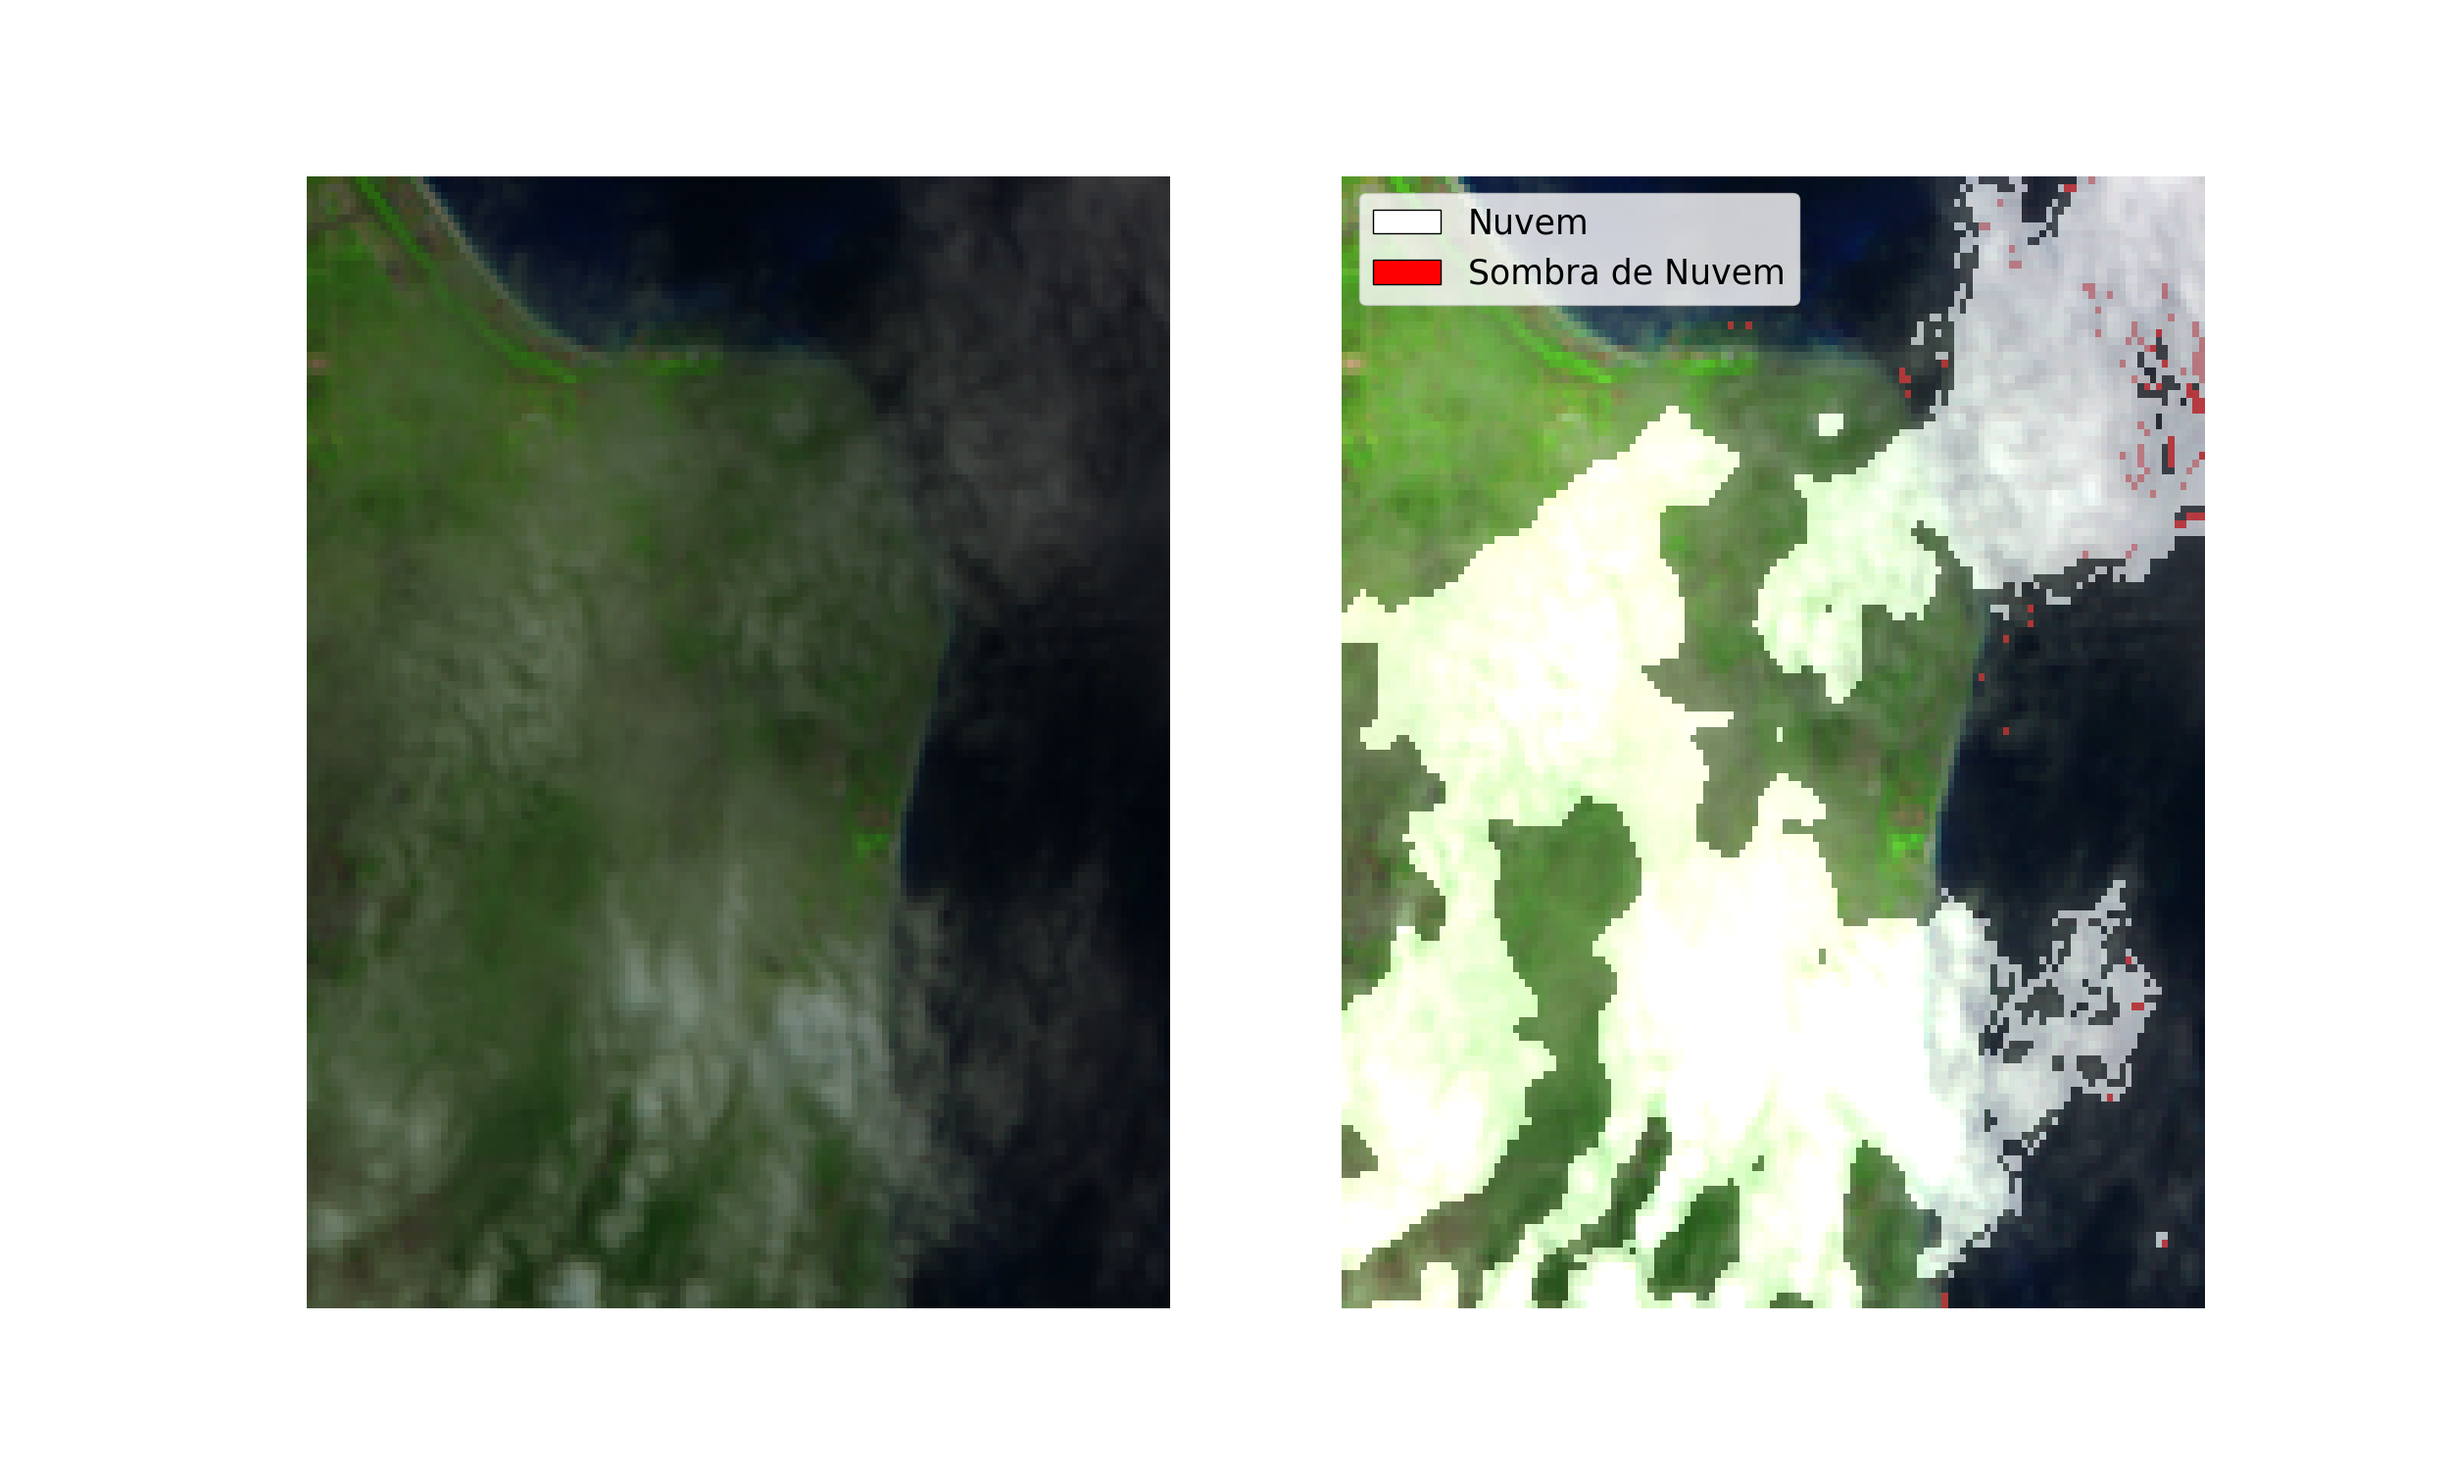
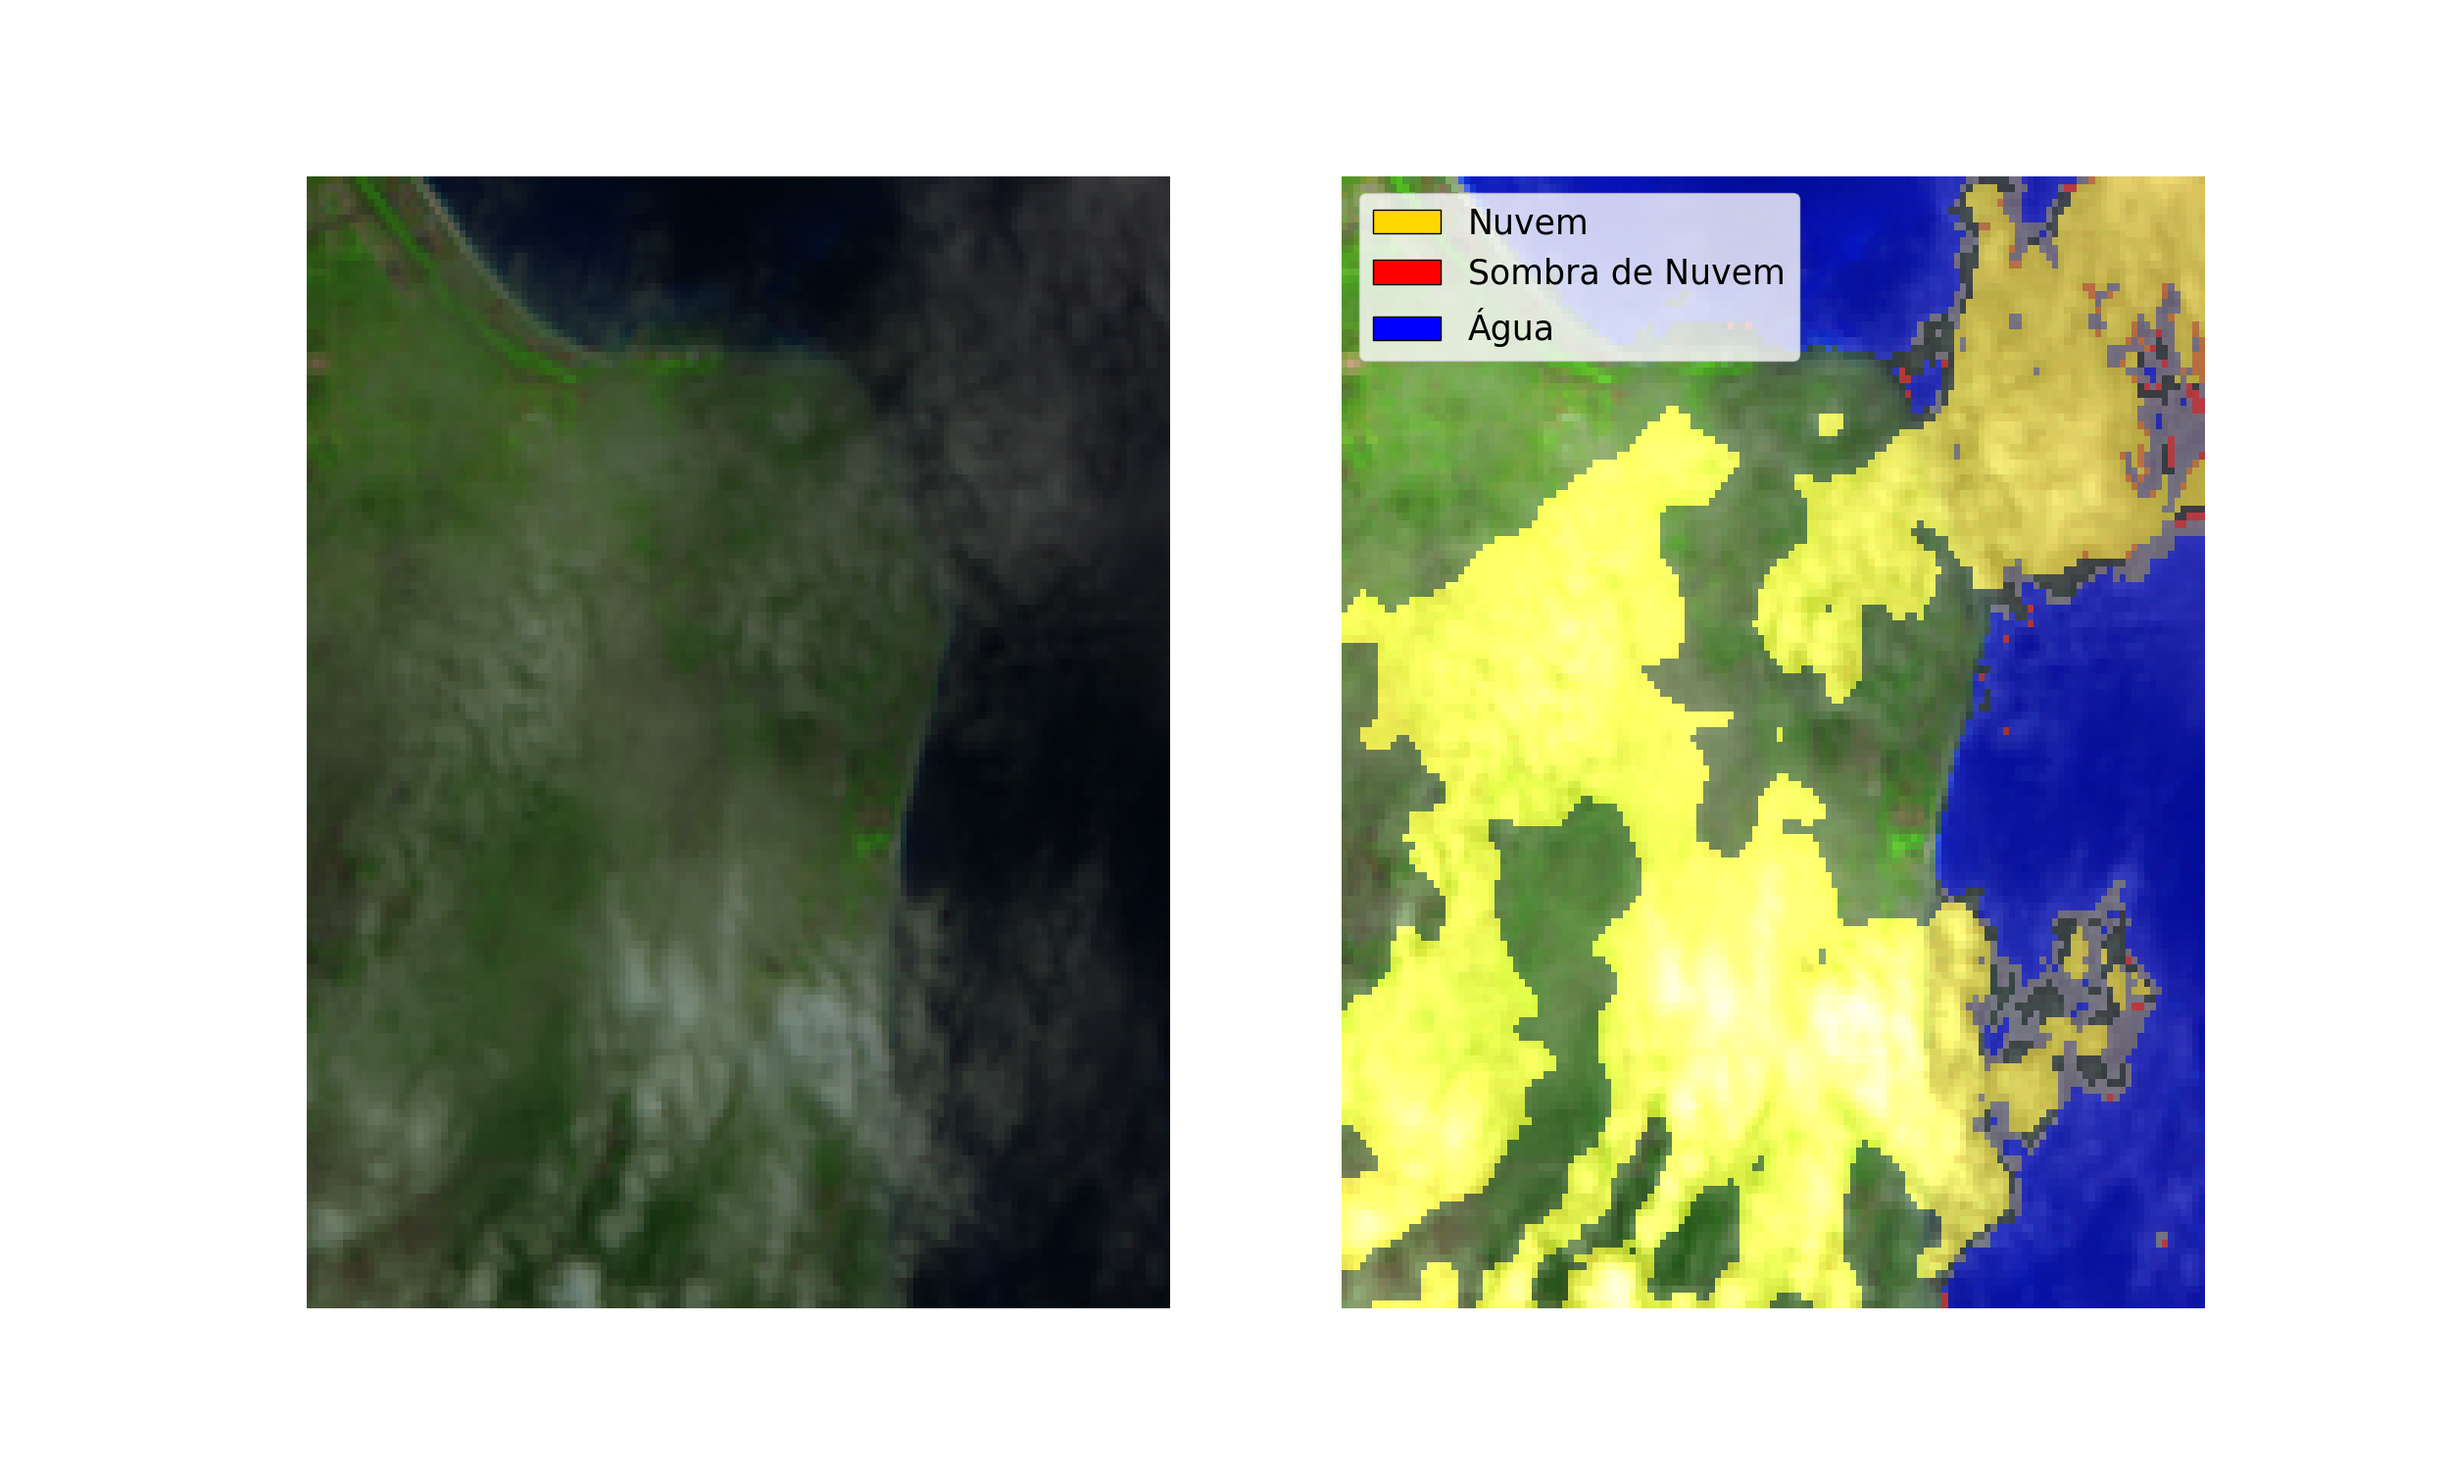
Add water layer

Changed region(s): [[0.5304, 0.1227, 0.9048, 0.8893]]

diff --git a/main.py b/main.py
@@ -475,8 +475,8 @@ class Fmask():
         plt.imshow(color_composite, interpolation='nearest', aspect='auto')
         plt.axis(False)
 
-        colors = ['white', 'red']
-        classes = ['Nuvem', "Sombra de Nuvem"]
+        colors = ['gold', 'red', 'blue']
+        classes = ['Nuvem', "Sombra de Nuvem", "Água"]
         masked_image = overlay_masks(color_composite,  np.stack(masks, -1), classes, colors=colors)
 
         plt.subplot(1, 2, 2)
@@ -521,7 +521,7 @@ class Fmask():
         ndwi = self.calculate_ndwi(B3, B5)
         bt = B6 - 273.15
         whiteness = self.whiteness_test(B3, B2, B1)
-        water = self.water_test(ndvi, B7)
+        water_test = self.water_test(ndvi, B7)
 
         # Get cloud mask
         cloud_mask = self.detect_clouds(b1=B1, b3=B3, 
@@ -532,11 +532,11 @@ class Fmask():
                                         modified_ndvi=modified_ndvi,
                                         modified_ndsi=modified_ndsi,
                                         whiteness=whiteness,
-                                        water=water)
+                                        water=water_test)
         
 
         # Get shadow cloud mask
-        shadow_mask = self.detect_shadows(B4, water_test=water)
+        shadow_mask = self.detect_shadows(B4, water_test=water_test)
 
         # cloud_mask = np.zeros_like(cloud_mask, dtype=np.uint8)
         # shadow_mask = np.zeros_like(cloud_mask, dtype=np.uint8)
@@ -544,7 +544,7 @@ class Fmask():
         # shadow_mask[shadow_mask] = 1
 
         # return ndwi, cloud_mask, shadow_mask
-        return np.transpose(np.array([bands[4], bands[3], bands[2]]), [1, 2, 0]), cloud_mask, shadow_mask
+        return np.transpose(np.array([bands[4], bands[3], bands[2]]), [1, 2, 0]), cloud_mask, shadow_mask, water_test
 
 
 if __name__ == "__main__":
@@ -565,7 +565,7 @@ if __name__ == "__main__":
 
     for inp in inputs:
         file_name = f'{inp.split("/")[-1].split(".")[0]}_result.png'
-        color_composite, cloud_mask, shadow_mask = fmask.create_fmask(inp)
+        color_composite, cloud_mask, shadow_mask, water_mask = fmask.create_fmask(inp)
         # fmask.save_tif(result, inputs[0], './test.tif')
-        fmask.save_plot([cloud_mask, shadow_mask], color_composite, save_dir, name=file_name)
+        fmask.save_plot([cloud_mask, shadow_mask, water_mask], color_composite, save_dir, name=file_name)
         # fmask.save(result, inp, file_name)
